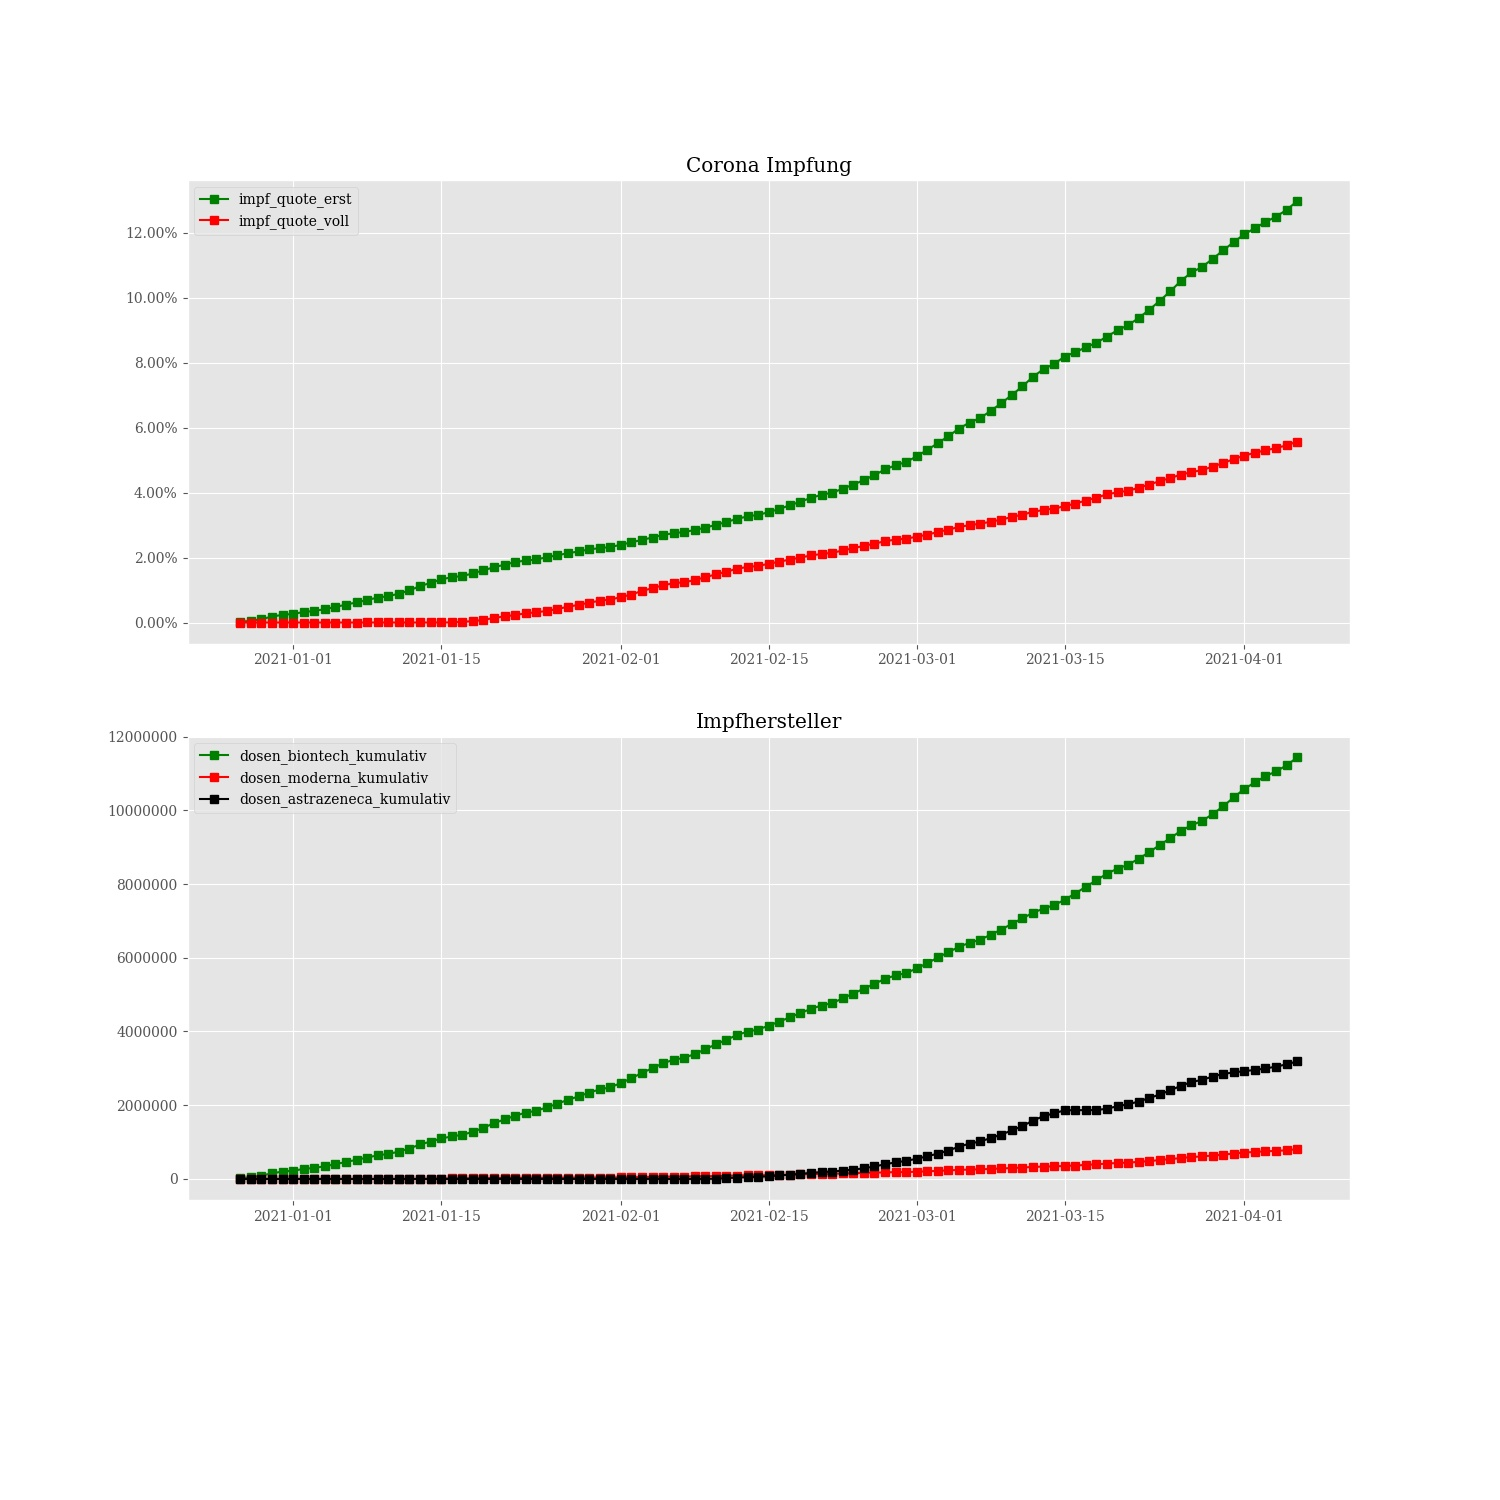
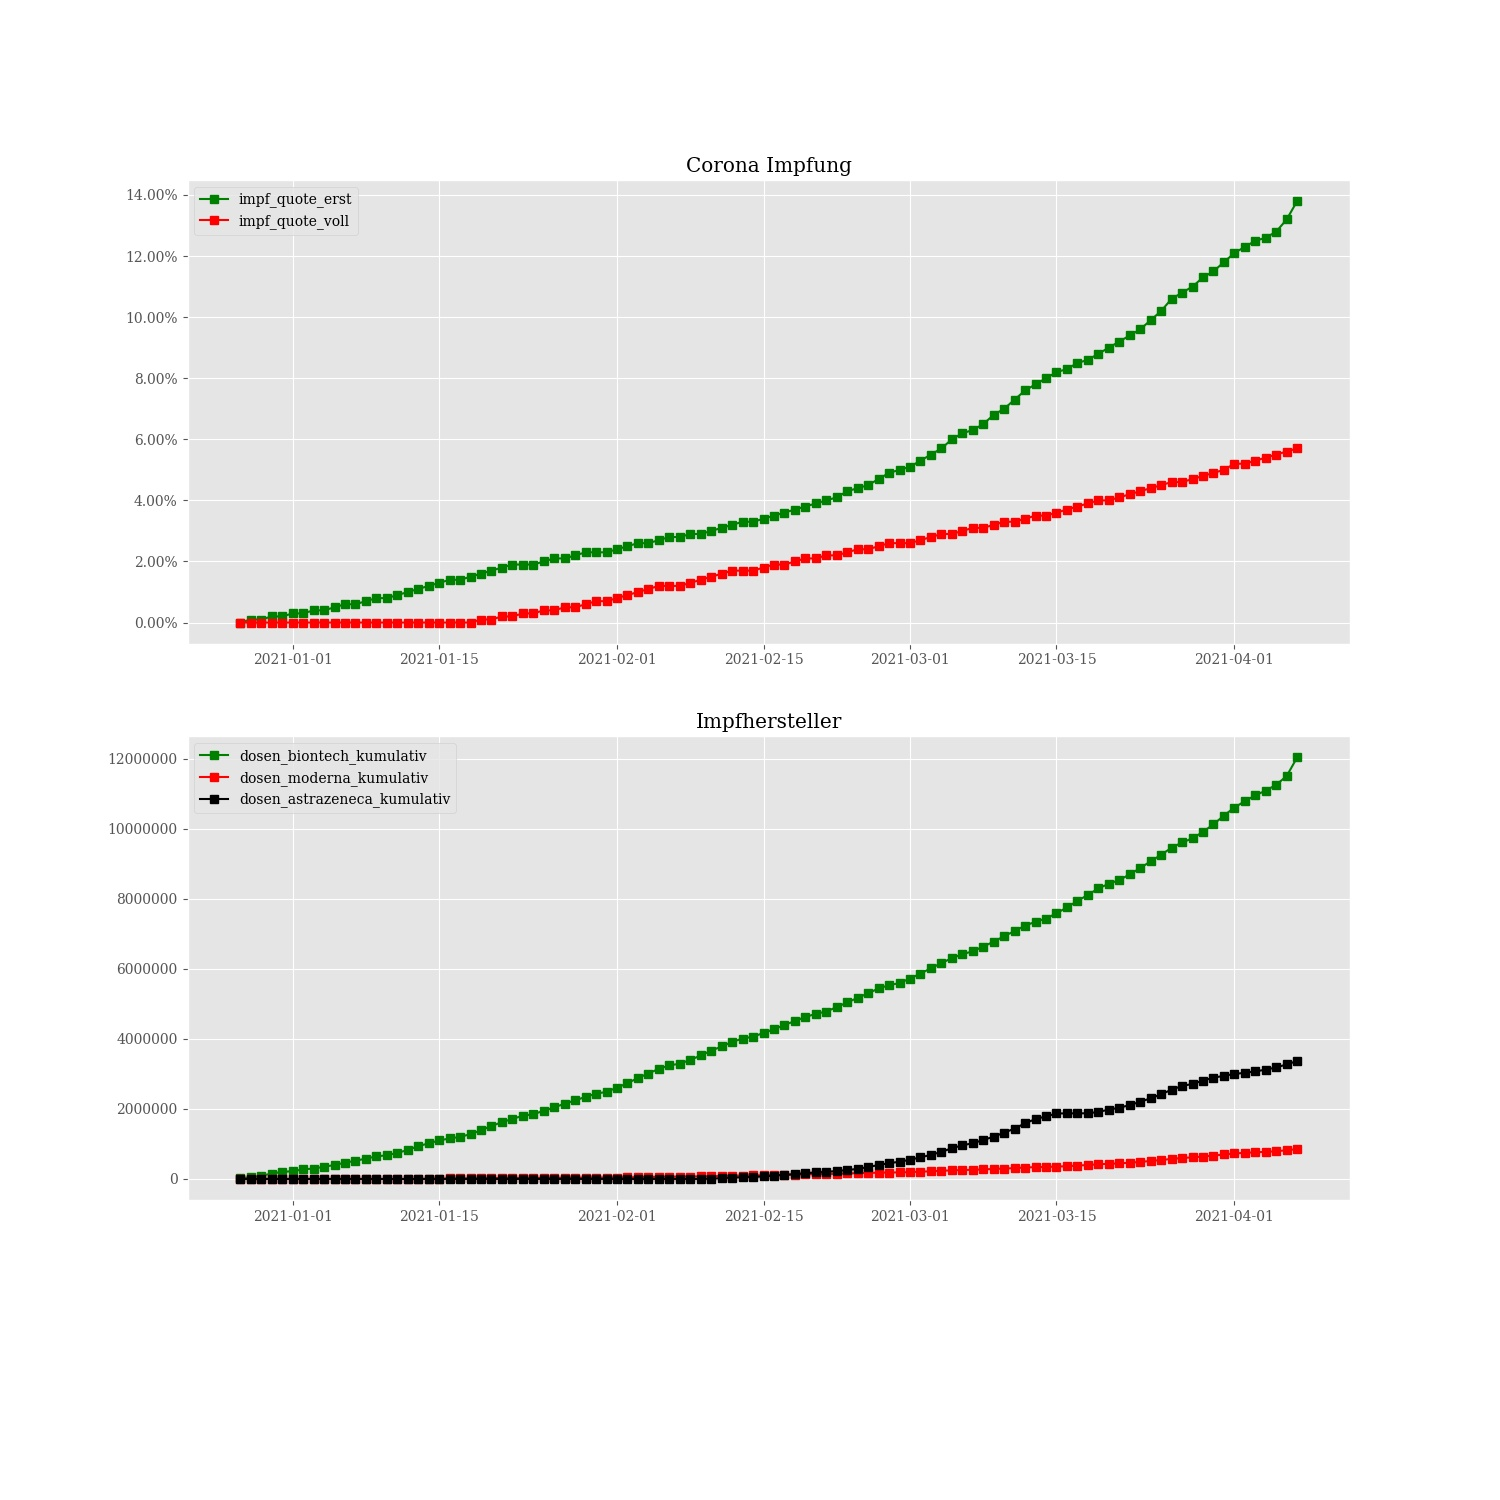
Crontab commit

diff --git a/Readme.md b/Readme.md
@@ -1,19 +1,19 @@
-# Corona vaccine Germany - Stand 2021-04-06
+# Corona vaccine Germany - Stand 2021-04-07
 ## Dashboard by [Simon Hamacher](https://www.shamacher.eu)
 ## Impfstoffe Übersicht
 **Impfstoffhersteller** | **verimpfte Dosen**
 -------- | :--------:
-Biontech | 11434391
-Moderna | 805451
-Astrazeneca | 3187674
+Biontech | 12037519
+Moderna | 848894
+Astrazeneca | 3367128
 
 
 ## Quoten
-**Total Verimpfte Dosen:** | 15427516
+**Total Verimpfte Dosen:** | 16253541
 -------- | :--------:
-**Erst-Impfquote** | 12.97 %
-**Voll-Impfquote** | 5.57 %
-**Imfungen Durchschnitt** | 152747.68 pro Tag
+**Erst-Impfquote** | 13.84 %
+**Voll-Impfquote** | 5.69 %
+**Imfungen Durchschnitt** | 159348.44 pro Tag
 ## Bundesländer
 **Bundesland** | **Prozent von gelieferten Imfdosen verimpft**
 -------- | :--------:
